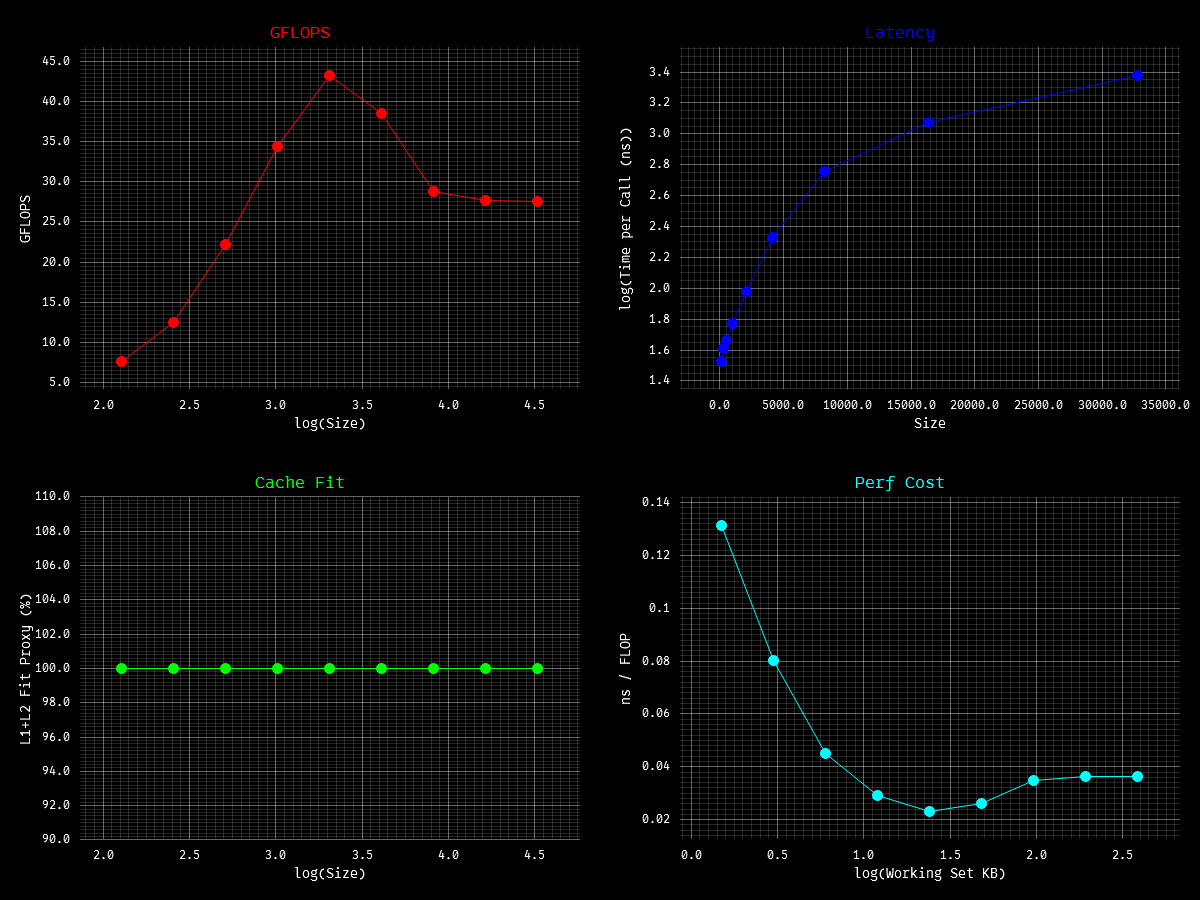
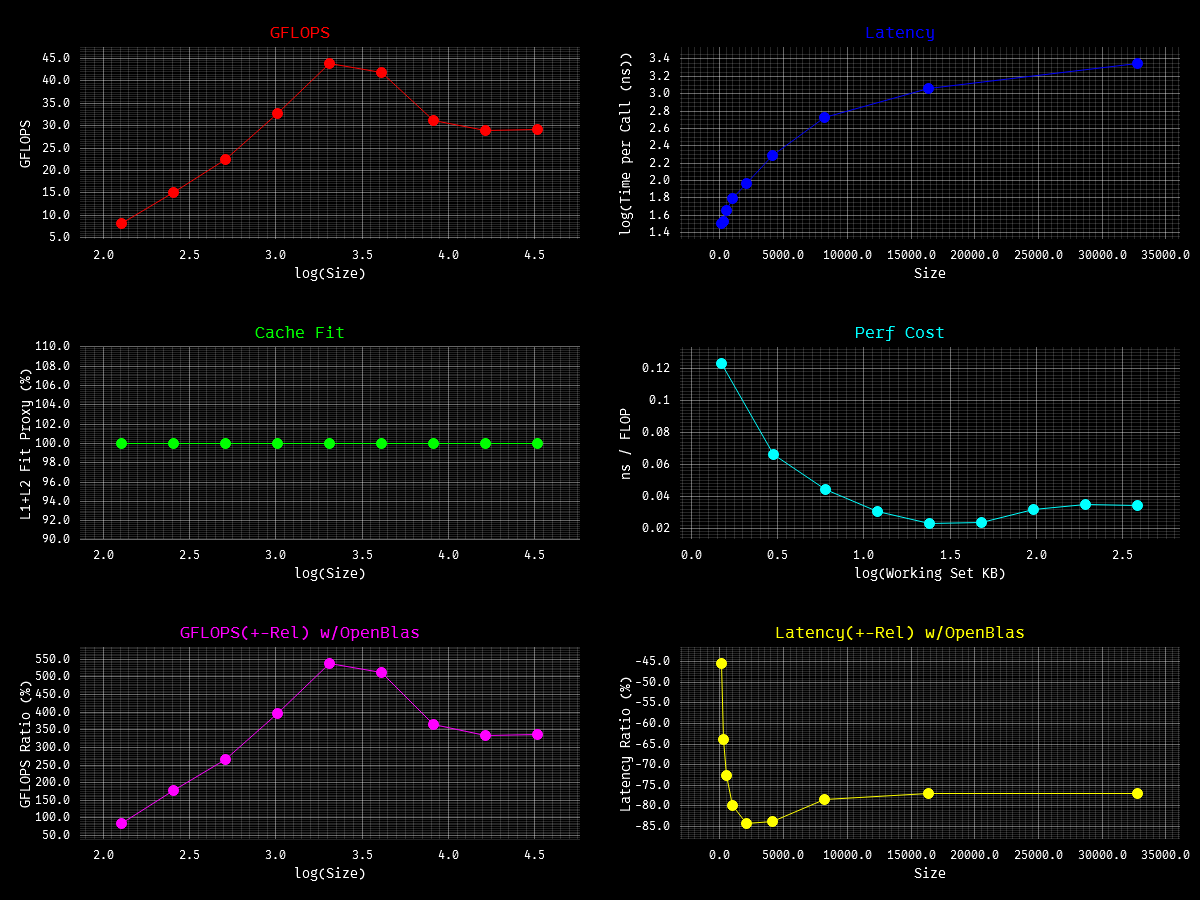
chore: new bench!! fix/tune tests and typo

diff --git a/src/lvl1.rs b/src/lvl1.rs
@@ -1052,7 +1052,7 @@ pub fn rotg(a: &mut f32, b: &mut f32, c: &mut f32, s: &mut f32) {
     *c = *a / r;
     *s = *b / r;
 
-    // This is by the intel docs ref to prevent floating point precision issues like (1- (99999)^2) since s^2 + c^2 = 1
+    // This is by the intel docs ref to prevent floating point precision issues like (1 - (99999)^2) since s^2 + c^2 = 1
     // What/How this does? its compression, if (a) |cos| is larger than (b) |sin|, so we store smaller value, here means |sin| < 1
     // and if not we CANT return smaller this time, because caller won't be able to know, Z is c or s?,
     // so we return 1/c, since |cos| < 1, so inverse be > 1, now caller can distinguish, |Z| > 1 -> 1/c or |Z| < 1 -> s

diff --git a/src/lvl2.rs b/src/lvl2.rs
@@ -326,9 +326,9 @@ fn gemv_native_test() {
     use std::hint::black_box;
 
     let warmup_count = 32;
-    let run_count = 64;
+    let run_count = 256;
 
-    let size = 32772;
+    let size = 16_384;
 
     let mut a = vec![1.0f32; size * size];
     let mut x = vec![1.0f32; size];

diff --git a/src/lvl3.rs b/src/lvl3.rs
@@ -74,8 +74,8 @@ fn gemm_exp_test() {
     use crate::utils::gen_fill;
     use std::hint::black_box;
 
-    let run = 4;
-    let size = 8192;
+    let run = 32;
+    let size = 4096;
 
     let mut a = vec![0.0f32; size * size];
     let mut b = vec![0.0f32; size * size];
